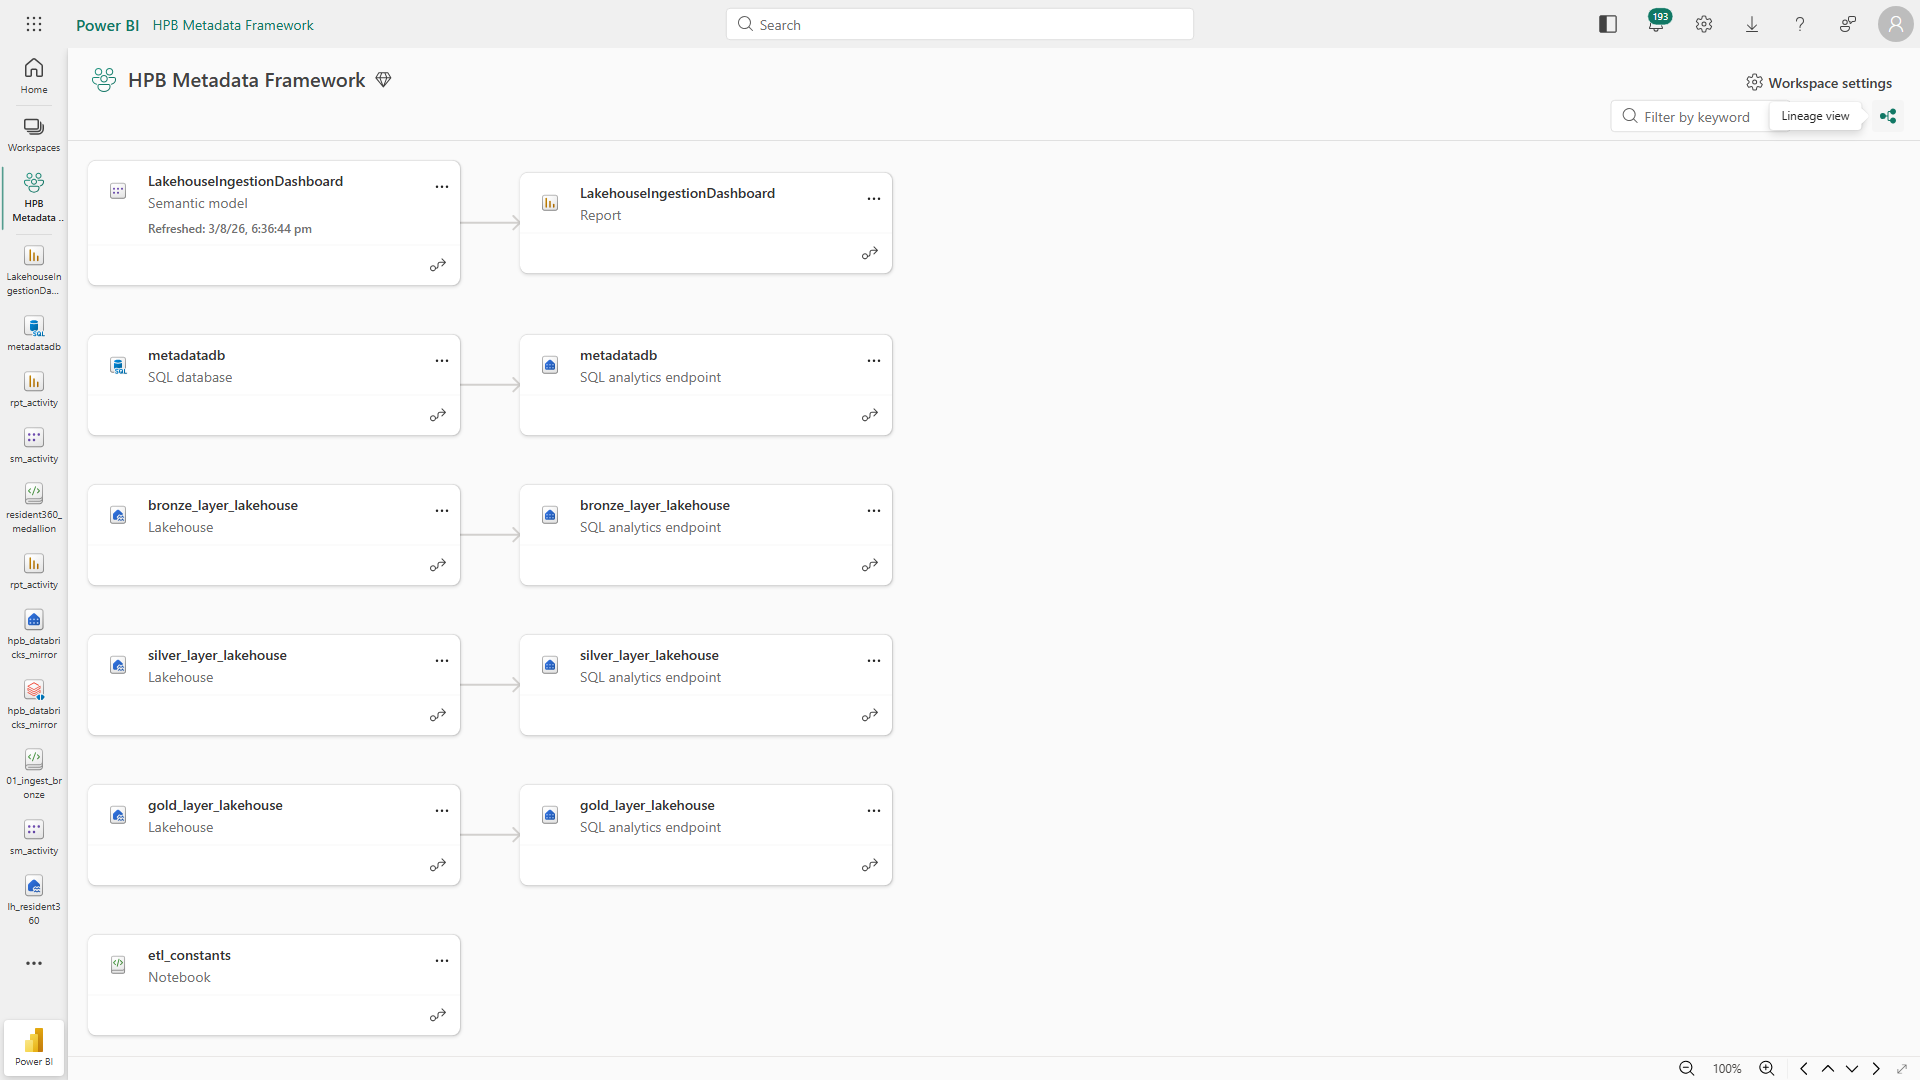
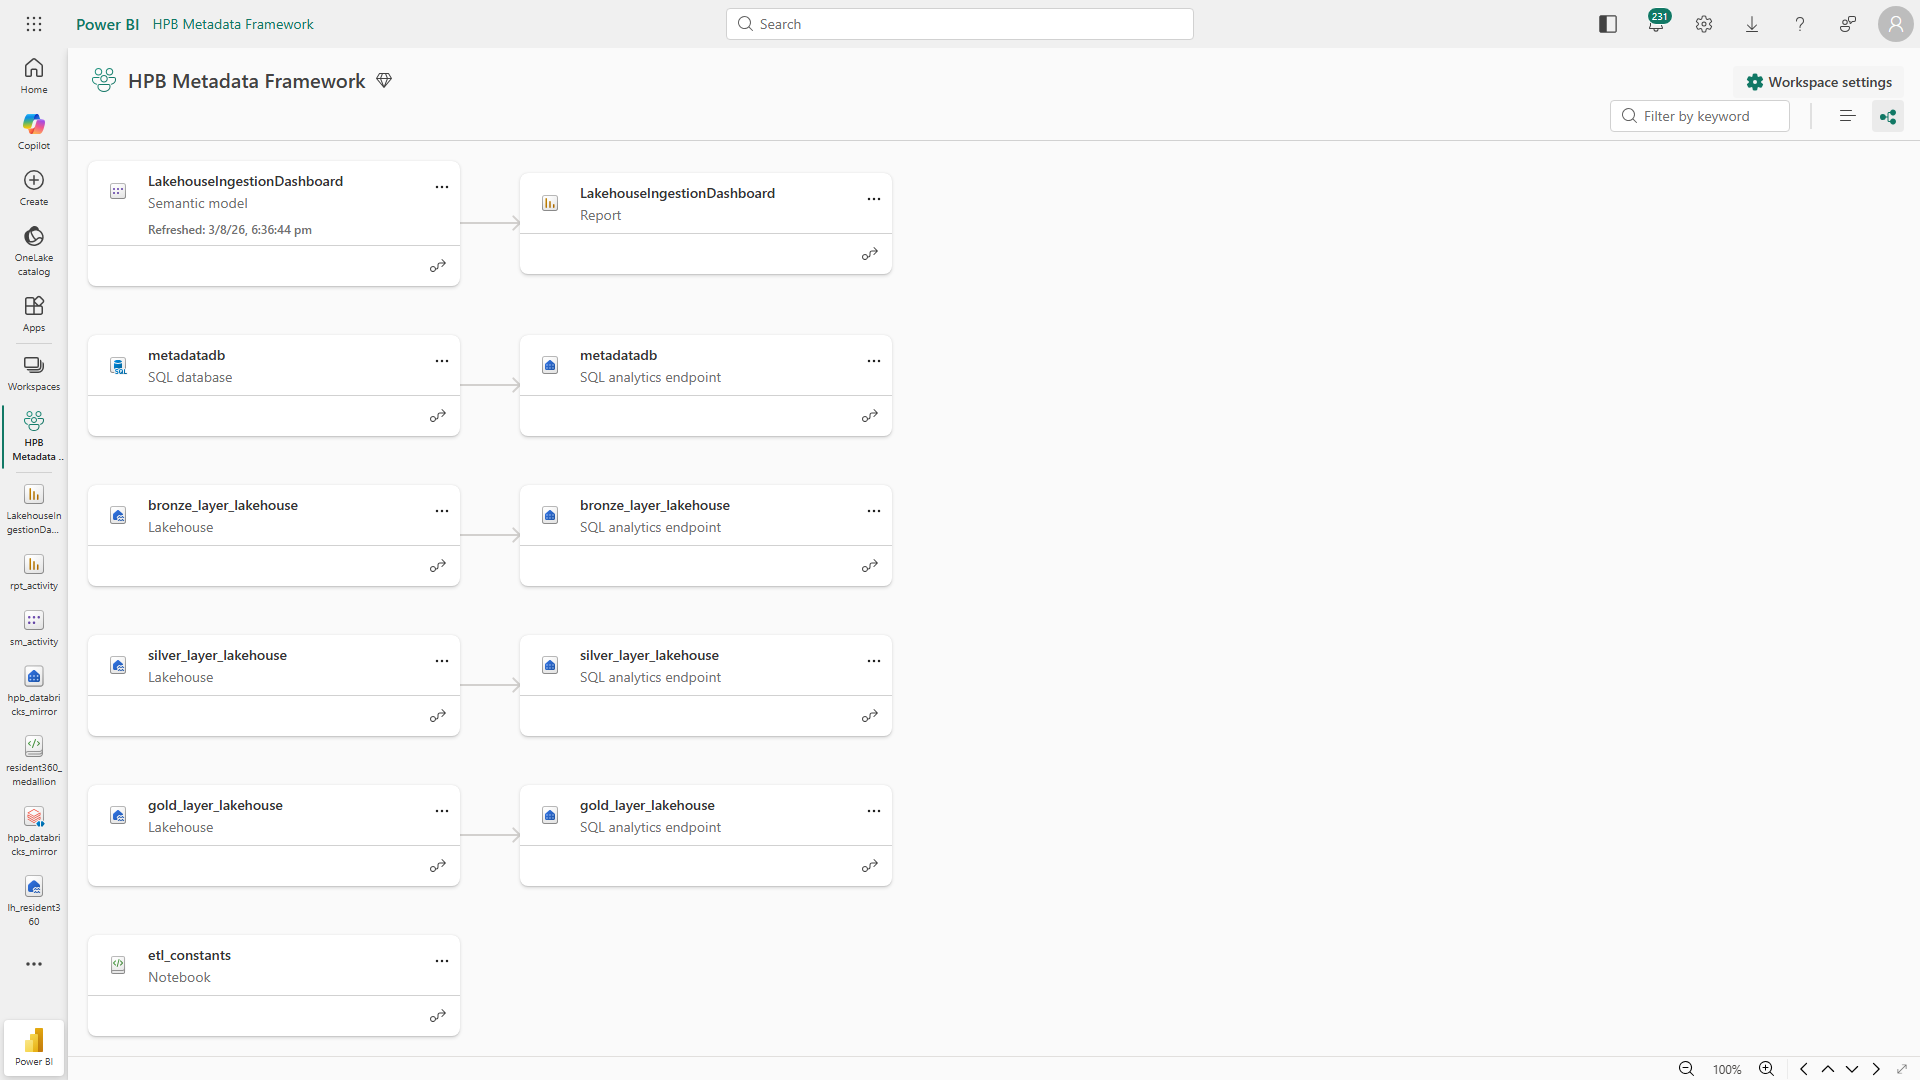
Lab 2: re-simulated end-to-end; add audit-hook screenshot (Task 2) and refresh control/audit/lineage captures

diff --git a/lab2-metadata-lakehouse/README.md b/lab2-metadata-lakehouse/README.md
@@ -115,6 +115,8 @@ Now make your transform **report** each run into the framework.
    — these are the **same two values** you used for the reader cell in Task 1.
 5. **Run just that cell.**
 
+   ![The audit-hook cell at the end of the notebook, printing "✅ Audit rows written to metadatadb" after the Spark jobs succeed.](../docs/images/lab2/lab2-05-audit-hook.png)
+
 > **Done when you see:** `✅ Audit rows written to metadatadb …`. (If you see a ⚠ skip message, tell the
 > facilitator — your Lab 1 results are unaffected either way.)
 
